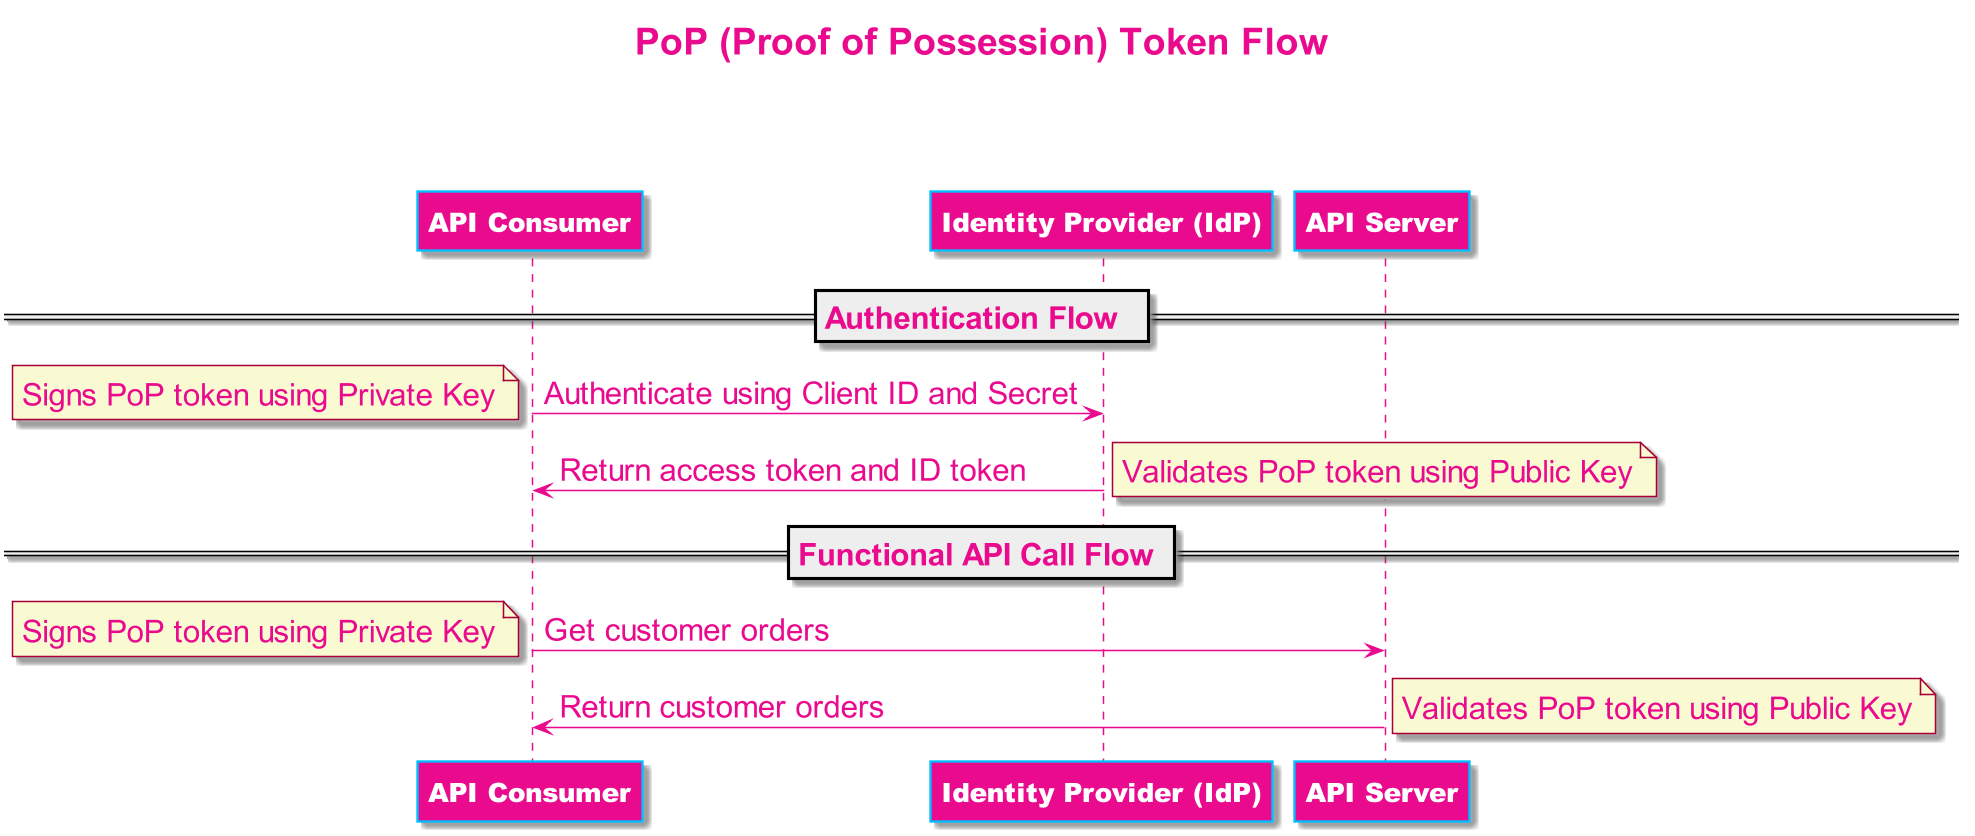
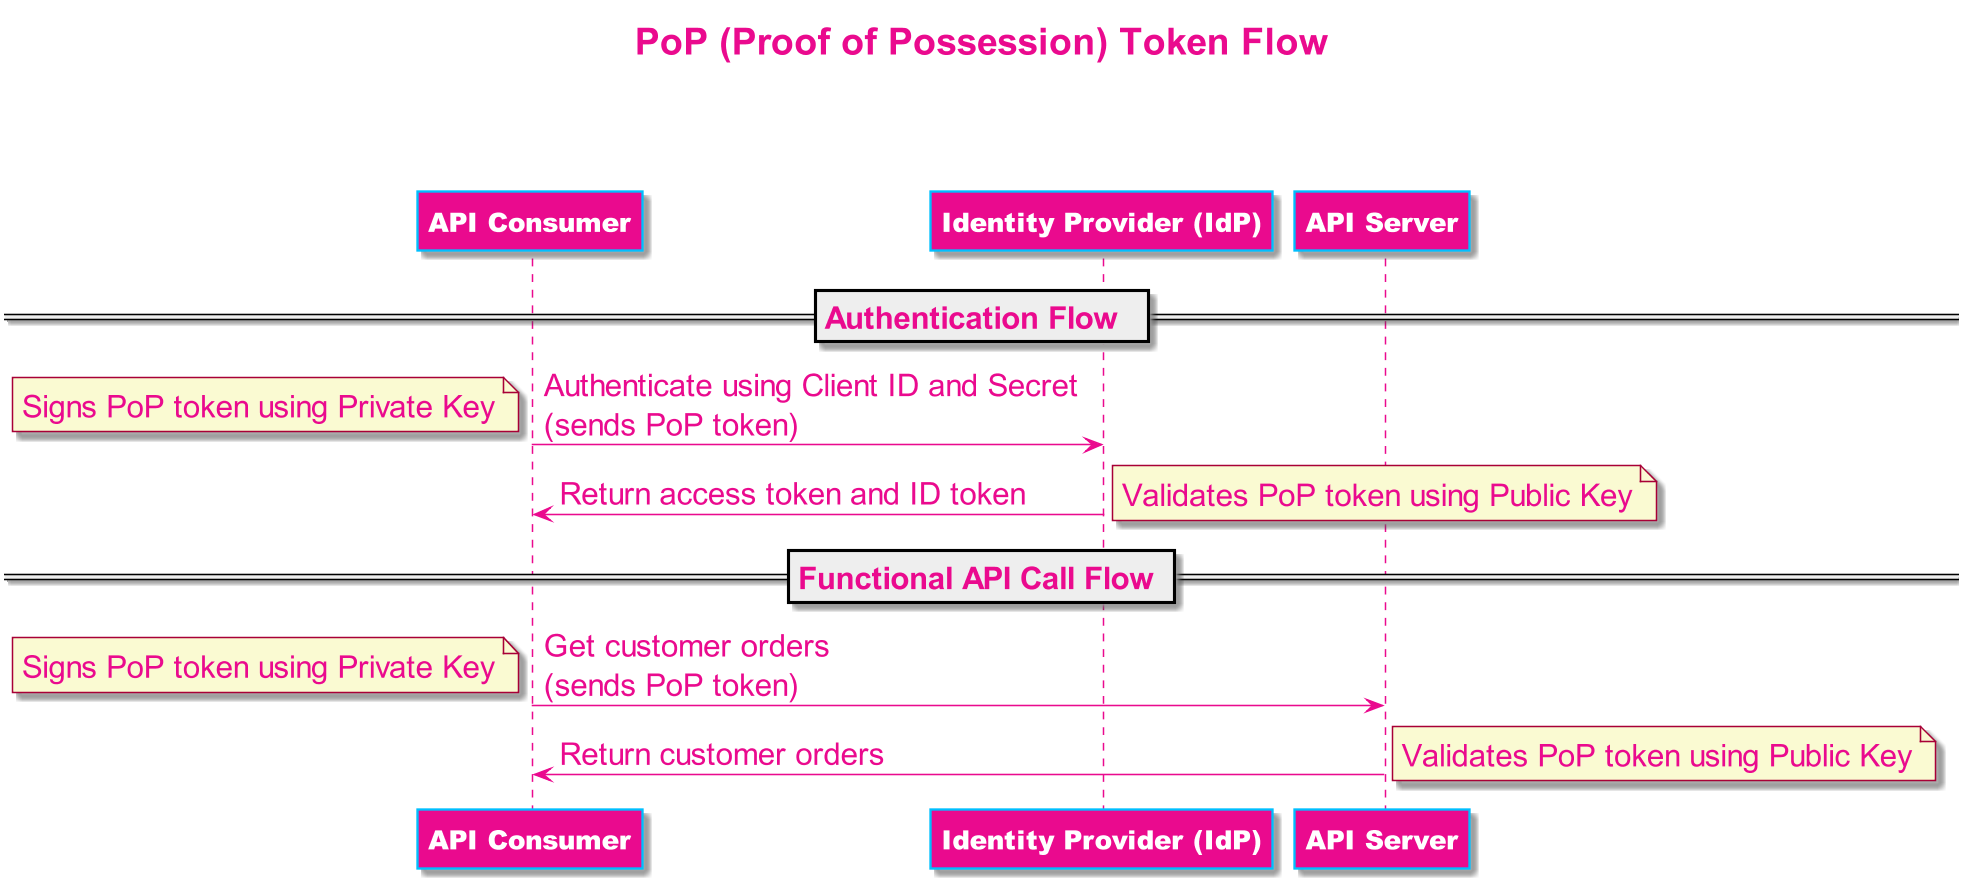
Updated readme and PoP token flow

Changed region(s): [[0.0, 0.1866, 1.0, 0.9641], [0.1853, 0.1866, 0.3397, 0.311], [0.3089, 0.0311, 0.6795, 0.0622]]

diff --git a/readme.md b/readme.md
@@ -1,7 +1,8 @@
 # T-Mobile API Security Libraries
 
 ## Overview
-"T-Mobile API Security Libraries" provides the libraries which can be leveraged to implement the API security within your enterpries. Currently it provides the PoP (Proof of Possession) token builder and validator related libraries. Proof of possession (PoP) helps enabling the message integrity and also helps avoiding the transaction replay and token theft. For each API request the new PoP token is created by API consumer and signed by client's private key which can then be verified using client's public key at API gateway. The PoP token builder libraries are available in multiple languages.
+
+"T-Mobile API Security Libraries" provides the libraries which can be leveraged to implement the API security within your enterprise. Currently it provides the PoP (Proof of Possession) token builder and validator related libraries. Proof of possession (PoP) helps enabling the message integrity and also helps avoiding the transaction replay and token theft. For each API request the new PoP token is created by API consumer and signed by the client's private key which can then be verified using the client's public key at API gateway. The PoP token builder libraries are available in multiple languages.
 
 ## Directory Structure
 
